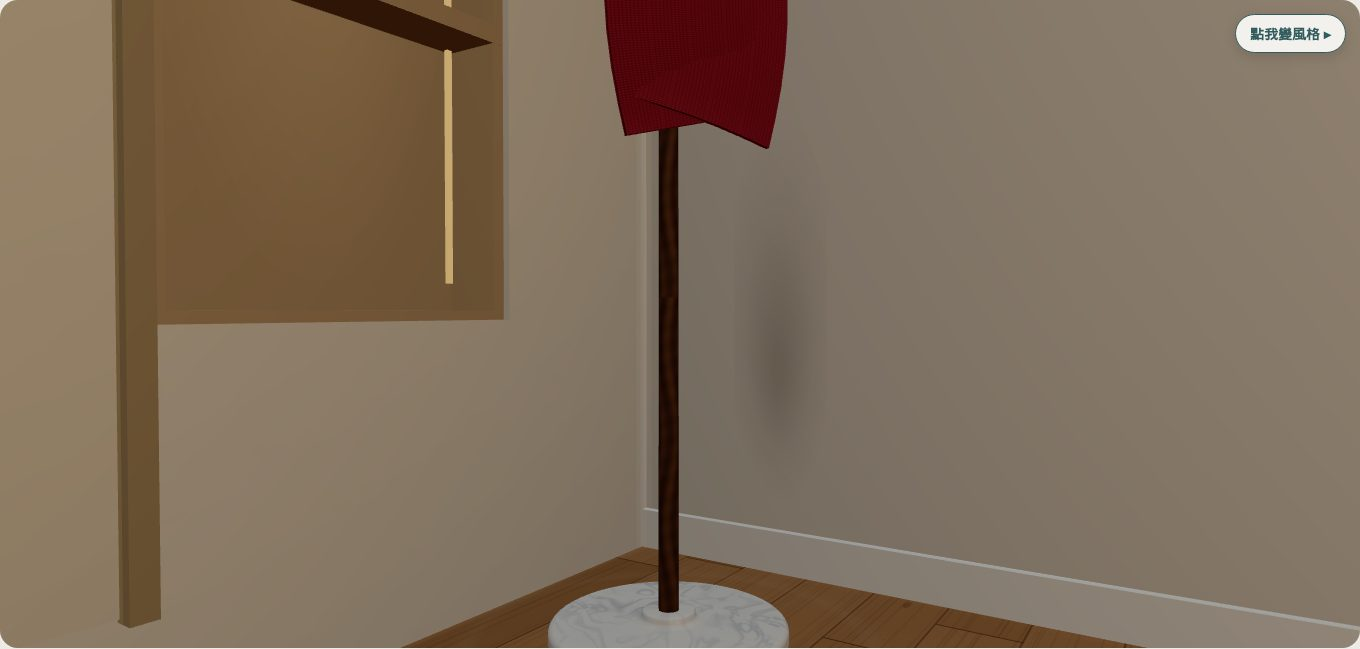
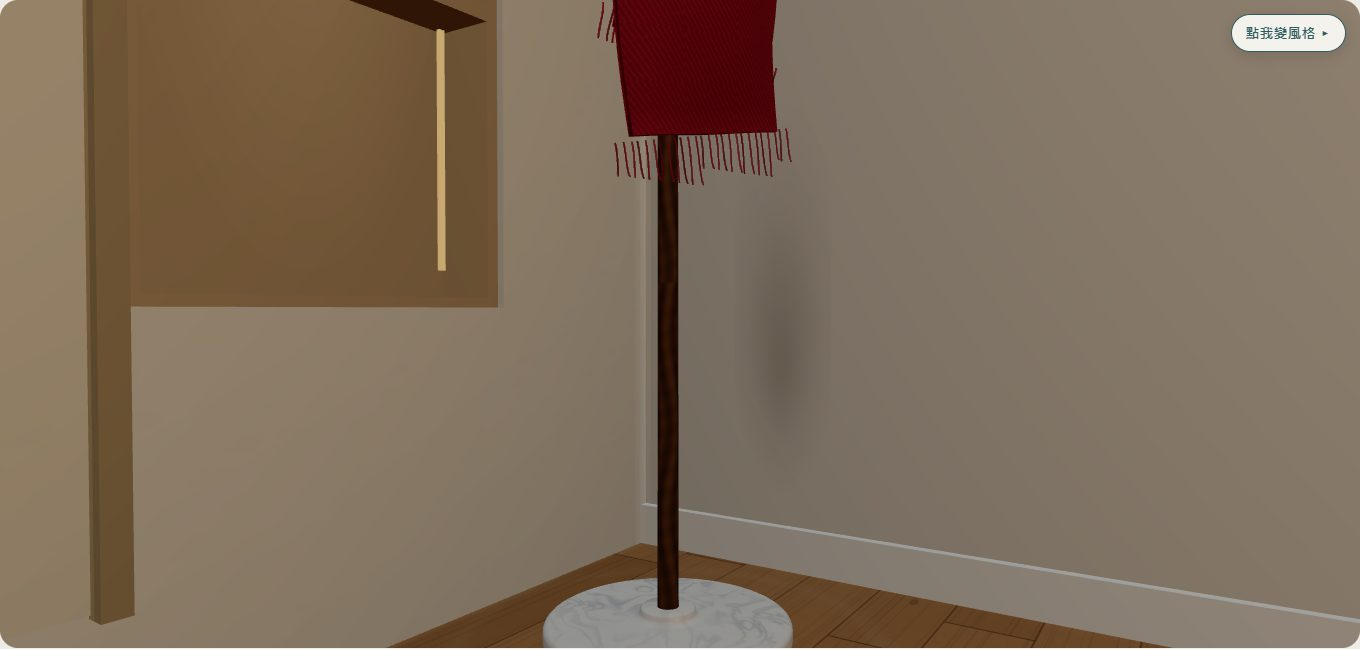
ROOMVERSE：紅圍巾改成精品喀什米爾風
原本是一片直板。改成程式生成的布：180×30 cm、厚 1 cm，兩條尾巴 85/75 cm 分開垂墜，鉤子處收窄，沿長度微扭轉與三層皺摺；細人字織紋加凹凸貼圖；兩端各 8 cm 流蘇（透明貼圖）。材質 roughness .96、metalness 0、DoubleSide，維持原本暖紅、無 logo。沒有用混元掃描。底座、桿、鉤子、牌匾都沒有動。

diff --git a/public/prototype/roomverse-3d/app.js b/public/prototype/roomverse-3d/app.js
@@ -1930,25 +1930,59 @@ export async function start({ stage, panel, lang, onReady }) {
   // long with the crown at 1.65 m. The scarf is about 1.6 m by 25 cm and 1 cm thick, each tail
   // dropping about 80 cm.
   const STAND_BASE_R = .205, STAND_DISC_H = .036;
-  function knitTexture() {
-    const canvas = document.createElement("canvas");
-    canvas.width = 64; canvas.height = 96;
-    const ctx = canvas.getContext("2d");
-    ctx.fillStyle = "#9c3034";
-    ctx.fillRect(0, 0, 64, 96);
-    for (let y = 2; y < 96; y += 6) {
-      for (let x = 2; x < 64; x += 6) {
-        ctx.fillStyle = ((x + y) / 6) % 2 ? "#b84a4c" : "#7c2428";
-        ctx.beginPath();
-        ctx.ellipse(x, y, 2.1, 1.3, 0, 0, Math.PI * 2);
-        ctx.fill();
+  // 精品喀什米爾的細織紋：人字紋短斜線交錯，配一張同圖的凹凸貼圖，
+  // 讓布面會吃光而不是一片平的紅。顏色維持原本的暖紅，不加點綴色。
+  function knitTextures() {
+    const size = 256;
+    const make = () => { const c = document.createElement("canvas"); c.width = c.height = size; return c; };
+    const albedo = make(), bump = make();
+    const actx = albedo.getContext("2d"), bctx = bump.getContext("2d");
+    actx.fillStyle = "#a83234"; actx.fillRect(0, 0, size, size);
+    bctx.fillStyle = "#808080"; bctx.fillRect(0, 0, size, size);
+    const step = 8;
+    for (let row = 0; row * step < size + step; row++) {
+      const dir = row % 2 ? 1 : -1;
+      for (let col = 0; col * step < size + step; col++) {
+        const x = col * step + (row % 2 ? step / 2 : 0), y = row * step;
+        const light = (col + row) % 3 === 0;
+        for (const [ctx, a, b] of [[actx, "#c14a4c", "#8f2528"], [bctx, "#d6d6d6", "#585858"]]) {
+          ctx.strokeStyle = light ? a : b;
+          ctx.lineWidth = 2.4;
+          ctx.beginPath(); ctx.moveTo(x, y); ctx.lineTo(x + dir * step * .9, y + step * .55); ctx.stroke();
+        }
       }
+    }
+    for (let i = 0; i < 900; i++) { // faint fibre halo so the weave is not perfectly regular
+      actx.fillStyle = i % 2 ? "rgba(255,214,208,.07)" : "rgba(88,18,18,.06)";
+      actx.fillRect((i * 97) % size, (i * 53) % size, 1, 3);
+    }
+    const map = new THREE.CanvasTexture(albedo);
+    map.colorSpace = THREE.SRGBColorSpace;
+    map.wrapS = map.wrapT = THREE.RepeatWrapping; map.repeat.set(3, 7); map.anisotropy = 8;
+    const bumpMap = new THREE.CanvasTexture(bump);
+    bumpMap.wrapS = bumpMap.wrapT = THREE.RepeatWrapping; bumpMap.repeat.set(3, 7); bumpMap.anisotropy = 8;
+    return { map, bumpMap };
+  }
+  // 兩端流蘇：一條一條的細線、長度略有不齊，線與線之間是透明的。
+  function scarfFringeTexture() {
+    const w = 256, h = 128;
+    const canvas = document.createElement("canvas"); canvas.width = w; canvas.height = h;
+    const ctx = canvas.getContext("2d");
+    ctx.clearRect(0, 0, w, h);
+    for (let i = 0; i < 26; i++) {
+      const x = (i + .5) * (w / 26) + (i % 3 - 1) * 1.2;
+      const len = h * (.6 + ((i * 37) % 34) / 100);
+      ctx.strokeStyle = i % 3 === 0 ? "#8f2528" : "#a83234";
+      ctx.lineWidth = 2.6;
+      ctx.beginPath();
+      ctx.moveTo(x, 0);
+      ctx.bezierCurveTo(x + 2, len * .4, x - 2, len * .75, x + (i % 2 ? 2 : -2), len);
+      ctx.stroke();
     }
     const tex = new THREE.CanvasTexture(canvas);
     tex.colorSpace = THREE.SRGBColorSpace;
-    tex.wrapS = tex.wrapT = THREE.RepeatWrapping;
-    tex.repeat.set(4, 9);
-    tex.anisotropy = 4;
+    tex.wrapS = tex.wrapT = THREE.ClampToEdgeWrapping;
+    tex.anisotropy = Math.min(8, renderer.capabilities.getMaxAnisotropy());
     return tex;
   }
   // Warm Carrara: mostly #ECE8E1, with a few thin grey wisps. One 1024 tile covers the
@@ -2115,15 +2149,18 @@ export async function start({ stage, panel, lang, onReady }) {
     return geo;
   }
   // Two tails over the hook. u = -1 and +1 are the hems; the middle rests on the hook.
+  // 兩條尾巴掛在鉤上，一邊 85 cm、一邊 75 cm（不對稱才像真的掛過）。
+  // u = -1 與 +1 是兩端下擺；中段貼在鉤子上。
   function scarfCenterline() {
     const pts = [];
-    for (let i = 0; i <= 28; i++) {
-      const u = i / 28 * 2 - 1;
+    for (let i = 0; i <= 32; i++) {
+      const u = i / 32 * 2 - 1;
       const au = Math.abs(u);
-      const drop = au < .07 ? 0 : Math.pow((au - .07) / .93, 1.06) * .80;
+      const tail = u < 0 ? .85 : .75;
+      const drop = au < .07 ? 0 : Math.pow((au - .07) / .93, 1.06) * tail;
       const y = .01 - drop;
-      const x = .098 + au * .02 + Math.sin(au * Math.PI) * .012;
-      const z = Math.sin(u * Math.PI * 2) * .03 * (.3 + au);
+      const x = .098 + au * .018 + Math.sin(au * Math.PI) * .010 + Math.sin(u * Math.PI * 1.7) * .006;
+      const z = Math.sin(u * Math.PI * 2) * .022 * (.3 + au) + u * .012 + Math.sign(u) * .020 * (1 - au);
       pts.push(new THREE.Vector3(x, y, z));
     }
     return pts;
@@ -2142,14 +2179,22 @@ export async function start({ stage, panel, lang, onReady }) {
       const bin = new THREE.Vector3().crossVectors(side, tan).normalize();
       for (let j = 0; j < cols; j++) {
         const f = j / across;
-        const s = (f - .5) * width;
-        const fold = Math.sin(t * Math.PI * 4.5) * Math.sin(f * Math.PI) * .016 + Math.sin(t * Math.PI * 2.1 + .5) * .007;
-        const cx = p.x + side.x * s + bin.x * fold;
-        const cy = p.y + side.y * s + bin.y * fold;
-        const cz = p.z + side.z * s + bin.z * fold;
+        const pinch = THREE.MathUtils.lerp(.55, 1, Math.min(1, Math.abs(t * 2 - 1) / .18));
+        const s = (f - .5) * width * pinch;
+        // 整條布沿長度慢慢扭轉，垂墜才不會像一片板子。
+        const twist = (t * 2 - 1) * .30;
+        const ct = Math.cos(twist), st = Math.sin(twist);
+        const sx = side.x * ct + bin.x * st, sy = side.y * ct + bin.y * st, sz = side.z * ct + bin.z * st;
+        const bx = -side.x * st + bin.x * ct, by = -side.y * st + bin.y * ct, bz = -side.z * st + bin.z * ct;
+        const fold = Math.sin(t * Math.PI * 5.2) * Math.sin(f * Math.PI) * .028
+          + Math.sin(t * Math.PI * 2.3 + .6) * .008
+          + Math.sin(f * Math.PI * 3 + t * 6) * .004;
+        const cx = p.x + sx * s + bx * fold;
+        const cy = p.y + sy * s + by * fold;
+        const cz = p.z + sz * s + bz * fold;
         for (let layer = 0; layer < layers; layer++) {
           const sign = layer === 0 ? 1 : -1;
-          positions.push(cx + bin.x * sign * ht, cy + bin.y * sign * ht, cz + bin.z * sign * ht);
+          positions.push(cx + bx * sign * ht, cy + by * sign * ht, cz + bz * sign * ht);
           uvs.push(f, t * 4);
         }
       }
@@ -2184,6 +2229,32 @@ export async function start({ stage, panel, lang, onReady }) {
     geo.userData.samples = curve.getPoints(48);
     return geo;
   }
+  // 兩端各一片 8 cm 的流蘇面（貼圖帶透明），沿下擺的寬度延伸、順著尾巴方向垂下。
+  function scarfFringeGeometry(points, width, thick) {
+    const curve = new THREE.CatmullRomCurve3(points);
+    const positions = [], uvs = [], indices = [];
+    const len = .08;
+    for (const t of [0, 1]) {
+      const p = curve.getPoint(t);
+      const tan = curve.getTangent(t).normalize();
+      const up = Math.abs(tan.y) > .92 ? new THREE.Vector3(1, 0, 0) : new THREE.Vector3(0, 1, 0);
+      const side = new THREE.Vector3().crossVectors(tan, up).normalize();
+      const down = tan.clone().multiplyScalar(-1);
+      const out = new THREE.Vector3().crossVectors(side, down).normalize().multiplyScalar(thick / 2 + .0012);
+      const hw = width / 2, base = positions.length / 3;
+      const corner = (s, l) => p.clone().addScaledVector(side, s).addScaledVector(down, l).add(out);
+      const a = corner(-hw, 0), b = corner(hw, 0), c = corner(-hw, len), d = corner(hw, len);
+      for (const v of [a, b, c, d]) positions.push(v.x, v.y, v.z);
+      uvs.push(0, 1, 1, 1, 0, 0, 1, 0);
+      indices.push(base, base + 2, base + 1, base + 1, base + 2, base + 3);
+    }
+    const geo = new THREE.BufferGeometry();
+    geo.setAttribute("position", new THREE.Float32BufferAttribute(positions, 3));
+    geo.setAttribute("uv", new THREE.Float32BufferAttribute(uvs, 2));
+    geo.setIndex(indices);
+    geo.computeVertexNormals();
+    return geo;
+  }
   function standPart(geo, mat, name, parent) {
     const mesh = new THREE.Mesh(geo, mat);
     mesh.name = name;
@@ -2203,7 +2274,15 @@ export async function start({ stage, panel, lang, onReady }) {
       color: "#ffffff", map: stone.map, roughnessMap: stone.roughnessMap,
       roughness: 1, metalness: 0, clearcoat: .1, clearcoatRoughness: .5,
     });
-    standScarfMat = new THREE.MeshStandardMaterial({ color: "#ffffff", roughness: .96, metalness: 0, side: THREE.DoubleSide, map: knitTexture() });
+    const knit = knitTextures();
+    standScarfMat = new THREE.MeshStandardMaterial({
+      color: "#ffffff", roughness: .96, metalness: 0, side: THREE.DoubleSide,
+      map: knit.map, bumpMap: knit.bumpMap, bumpScale: .0035,
+    });
+    const fringeMat = new THREE.MeshStandardMaterial({
+      color: "#ffffff", roughness: .96, metalness: 0, side: THREE.DoubleSide,
+      map: scarfFringeTexture(), transparent: true, alphaTest: .35, depthWrite: false,
+    });
     const baseMesh = standPart(weightedBaseGeometry(), standBaseMat, "hall-stand-base", group);
     baseMesh.position.y = .001;
     const pole = standPart(new THREE.CylinderGeometry(.0155, .0175, 1.68, 24), walnut, "hall-stand-pole", group);
@@ -2229,9 +2308,14 @@ export async function start({ stage, panel, lang, onReady }) {
       const tip = standPart(tipGeo, standBrass, "hall-stand-hook-tip", pivot);
       tip.position.set(.086, -.04, 0);
       if (kind === "scarf") {
-        const scarfWidth = .25, scarfThick = .01;
-        const scarf = standPart(knitScarf(scarfCenterline(), scarfWidth, scarfThick, 40, 5), standScarfMat, "hall-stand-scarf", pivot);
+        // 180 × 30 cm、厚 1 cm；兩條尾巴 85 cm 與 75 cm，兩端各有 8 cm 流蘇。
+        const scarfWidth = .30, scarfThick = .01;
+        const line = scarfCenterline();
+        const scarf = standPart(knitScarf(line, scarfWidth, scarfThick, 40, 5), standScarfMat, "hall-stand-scarf", pivot);
         scarf.castShadow = true;
+        const fringe = standPart(scarfFringeGeometry(line, scarfWidth, scarfThick), fringeMat, "hall-stand-scarf-fringe", pivot);
+        fringe.castShadow = false;
+        fringe.receiveShadow = false;
       }
       group.add(pivot);
     };
@@ -2565,6 +2649,8 @@ export async function start({ stage, panel, lang, onReady }) {
         yaw: standGroup.rotation.y,
         scarfSide: standScarfMat.side,
         scarfRough: standScarfMat.roughness, scarfMetal: standScarfMat.metalness,
+        scarfBump: !!standScarfMat.bumpMap, scarfBumpScale: standScarfMat.bumpScale,
+        scarfFringe: !!standGroup.getObjectByName("hall-stand-scarf-fringe"),
         brassMetal: standBrass.metalness,
         baseType: standBaseMat?.type ?? null, baseMetal: standBaseMat?.metalness ?? null,
         baseHasRough: !!standBaseMat?.roughnessMap, baseMapped: !!standBaseMat?.map,

diff --git a/tests/roomverse-hall-stand.spec.js b/tests/roomverse-hall-stand.spec.js
@@ -55,6 +55,10 @@ test("hall stand is clean geometry in the front-left corner", async ({ page }) =
   expect(rack.scarfSide).toBe(2);
   expect(rack.scarfRough).toBeGreaterThan(0.9);
   expect(rack.scarfMetal).toBe(0);
+  // 布面要有細織紋凹凸，兩端要有流蘇（精品圍巾的兩個辨識點）。
+  expect(rack.scarfBump).toBe(true);
+  expect(rack.scarfBumpScale).toBeGreaterThan(0);
+  expect(rack.scarfFringe).toBe(true);
   expect(rack.brassMetal).toBeGreaterThan(0.8);
   expect(rack.edgeByName["hall-stand-scarf"]).toBeLessThan(0.18);
   const m = rack.measured;
@@ -69,8 +73,8 @@ test("hall stand is clean geometry in the front-left corner", async ({ page }) =
   expect(m.hookHeight).toBeLessThanOrEqual(1.7);
   expect(m.scarfLength).toBeGreaterThanOrEqual(1.5);
   expect(m.scarfLength).toBeLessThanOrEqual(1.8);
-  expect(m.scarfWidth).toBeGreaterThanOrEqual(0.2);
-  expect(m.scarfWidth).toBeLessThanOrEqual(0.3);
+  expect(m.scarfWidth).toBeGreaterThanOrEqual(0.29);
+  expect(m.scarfWidth).toBeLessThanOrEqual(0.31); // 30 cm
   expect(m.scarfThick).toBeGreaterThanOrEqual(0.008);
   expect(m.scarfThick).toBeLessThanOrEqual(0.014);
   expect(Math.min(m.drapeA, m.drapeB)).toBeGreaterThanOrEqual(0.7);

diff --git a/docs/qa/roomverse-scarf-cashmere/README.md b/docs/qa/roomverse-scarf-cashmere/README.md
@@ -1,0 +1,42 @@
+# ROOMVERSE 3D：紅圍巾改成精品喀什米爾風
+
+## 結論
+
+原本的紅圍巾是一片直的薄板。這次把它做成**真的布**：180×30 cm、厚 1 cm、兩端各 8 cm 流蘇、掛在鉤子上有自然垂墜與微扭轉，兩條尾巴一邊 85 cm、一邊 75 cm，細人字織紋加凹凸貼圖。沒有 logo、沒有字樣。
+
+## 做法（全部程式生成，沒有用混元掃描）
+
+1. **尺寸照真實**：寬 30 cm、厚 1 cm、布長約 162 cm（含兩端 8 cm 流蘇約 178 cm ≈ 180 cm），垂墜 85 / 75 cm。
+2. **兩條尾巴分開**：中心線在鉤子附近把兩片布錯開 2 cm，掛上去才看得出是兩層，不是一片。
+3. **鉤子處收窄**：布被鉤子夾住，寬度從 55% 往下展開成 100%，避免頂端像一塊方板。
+4. **扭轉與皺摺**：整條布沿長度慢慢扭轉（±0.30 rad），加上三層不同頻率的皺摺，垂墜有起伏。
+5. **人字織紋 + 凹凸**：256×256 的 canvas 織紋（暖紅 #a83234 為底、明暗斜線交錯），另做一張同圖的 bumpMap，讓布面會吃光。
+6. **流蘇**：兩端各一片 8 cm 的透明貼圖面（26 條細線、長度略不齊），雙面材質、alphaTest 0.35。
+7. **材質**：roughness 0.96、metalness 0、DoubleSide——布料沒有亮面反光。
+
+## 量測（來自 `window.__room.hallStand()`）
+
+| 項目 | 值 |
+|---|---|
+| 圍巾寬 | 0.300 m |
+| 厚度 | 0.010 m |
+| 兩側垂墜 | 0.851 m / 0.751 m |
+| 布料長度（中心線） | 1.619 m（加流蘇約 1.78 m） |
+| 流蘇 | true |
+| 凹凸貼圖 | true |
+| 拓樸 | 全衣帽架 3,961 頂點（未超過既有 4,000 上限） |
+
+## 沒有動到的東西
+
+- 底座 41 cm、桿徑、6 支鉤子（1.65 m）、衣帽架總高。
+- 白板、春聯、牌匾「基督是我家之主」等其他物件。
+- 紅色維持原本的暖紅，沒有改成酒紅、沒有混色、沒有 logo。
+
+## 驗證
+
+- `npx playwright test tests/roomverse-hall-stand.spec.js` → 3 passed
+- `npm test`、`check-journey-language`、`check-document-parity`、`check-onepager-sync`（見 PR）
+
+## 截圖
+
+`rain-room-1440.png`、`rain-close-1440.png`、`slow-room-1440.png`、`tv-room-1440.png`、`tv-close-1440.png`、`rain-room-390.png`、`rain-close-390.png`、`tv-close-390.png`
